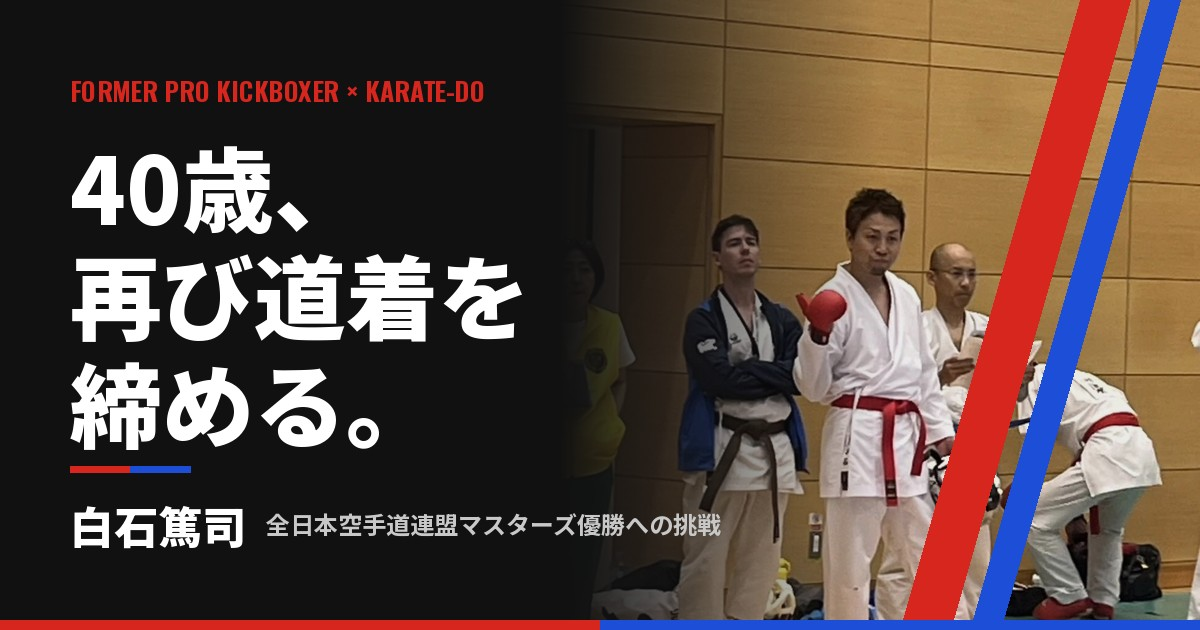
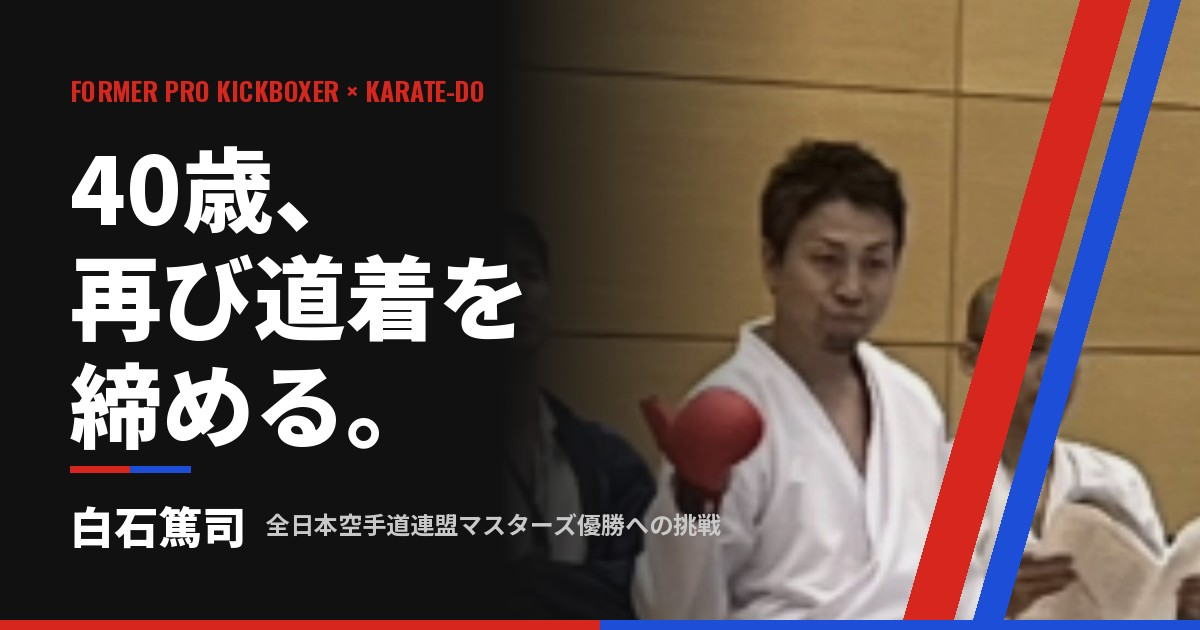
OGP画像を赤い拳サポーターの写真に差し替え
Claude-Session: https://claude.ai/code/session_01GMjUyeMG4wZGZ9wJcY6Nak

Changed region(s): [[0.4317, 0.0, 1.0, 0.9952], [0.4317, 0.7238, 0.4933, 0.9048], [0.925, 0.4222, 1.0, 0.4825]]

diff --git a/scripts/build_brand_assets.py b/scripts/build_brand_assets.py
@@ -59,10 +59,10 @@ def favicon():
 def ogp():
     W, H = 1200, 630
     base = Image.new("RGB", (W, H), INK)
-    # 右側：試合前の写真（赤帯・赤サポーター）
-    photo = Image.open(IMG / "kumite.jpg").convert("RGB")
-    pw = 640
-    photo = ImageOps.fit(photo, (pw, H), centering=(0.55, 0.3))
+    # 右側：試合前の写真（赤い拳サポーター・赤帯）
+    photo = Image.open(IMG / "ogp-photo.jpg").convert("RGB")
+    pw = 700
+    photo = ImageOps.fit(photo, (pw, H), centering=(0.5, 0.3))
     photo = Image.blend(photo, Image.new("RGB", photo.size, INK), 0.08)
     base.paste(photo, (W - pw, 0))
     # 左から黒のグラデーションで写真に溶け込ませる
